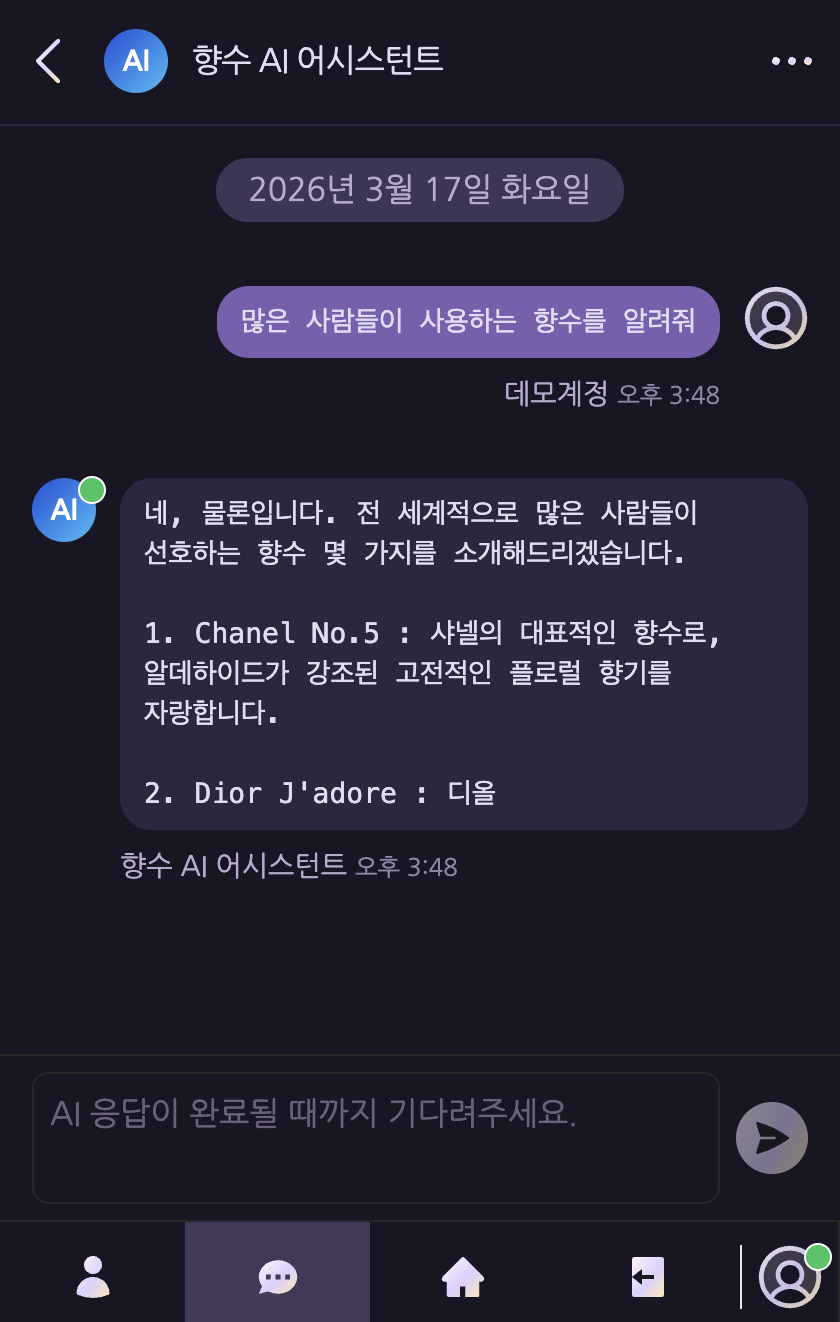
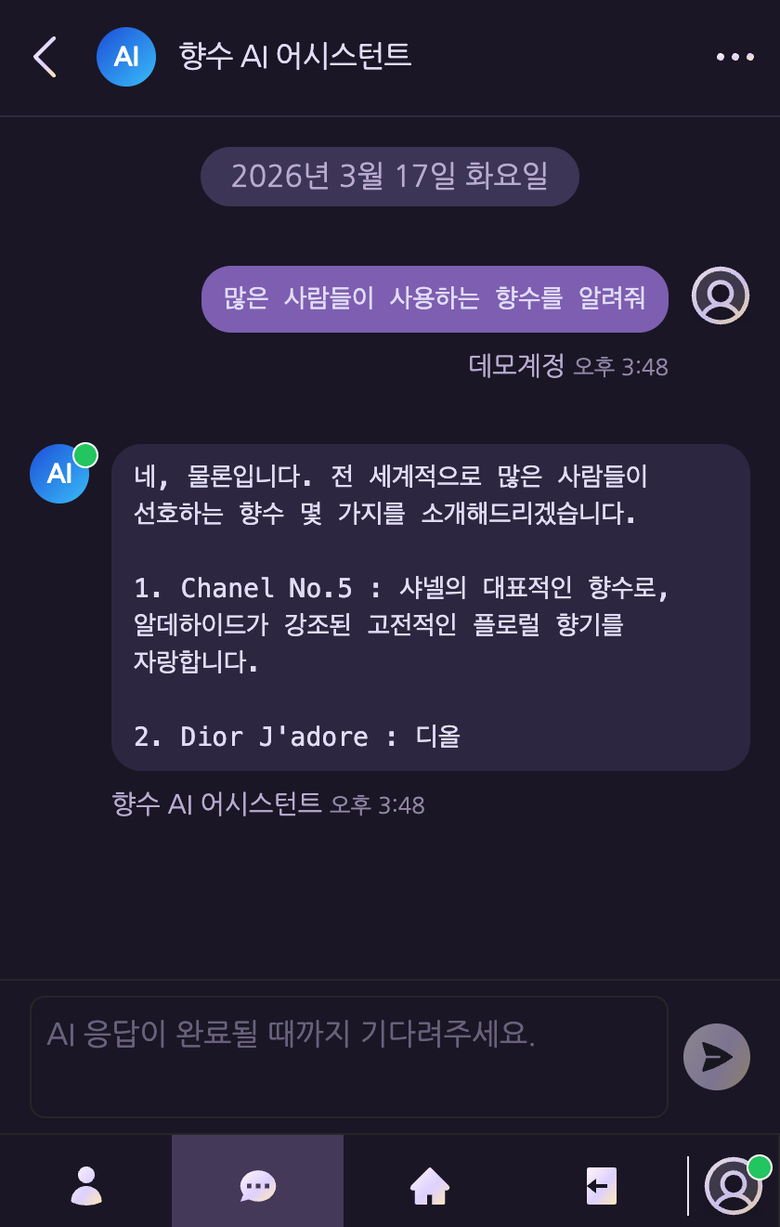
feat: 메인 페이지 리뉴얼 작업 중
- FeatureShowcase 컴포넌트 신규 추가
- home-v2 페이지 추가 (showcase 이미지: scan, create, scan_web)
- 목업 이미지 추가
- .gitignore에 .claude/ 추가

diff --git a/next-server/src/app/components/main/FeatureShowcase.tsx b/next-server/src/app/components/main/FeatureShowcase.tsx
@@ -1,0 +1,377 @@
+'use client';
+
+import Image from 'next/image';
+import Link from 'next/link';
+import { motion } from 'framer-motion';
+import { HiArrowRight } from 'react-icons/hi2';
+
+/* ──────────────────────────────────────────────
+   데이터
+────────────────────────────────────────────── */
+const FEATURES = [
+  {
+    tag: 'AI Chat',
+    headline: ['향수에 대해 궁금한 점을', 'AI에게 물어보세요'],
+    steps: [
+      { label: 'AI 채팅방에 들어가요', desc: '향수 AI 어시스턴트와 1:1로 대화할 수 있어요' },
+      { label: '궁금한 것을 편하게 물어보세요', desc: '"향수를 처음 사려는데 뭐가 좋을까요?" 친구한테 묻듯이 편하게 적어보세요' },
+      { label: '향수와 관련된 질문에 답해드려요', desc: '향수 추천부터 향의 계열, 브랜드 스토리까지 궁금한 점을 자유롭게 물어보세요' },
+    ],
+    badges: ['GPT-4o', 'Streaming', 'Socket.io'],
+    cta: '채팅 시작하기',
+    href: '/conversations/new?aiAgentType=assistant',
+    image: '/image/notice/chat/conversation_ai/chat_ai_mobile04.png',
+    webImage: '/image/notice/chat/conversation_ai/chat_ai_web04.png',
+    imageAlt: 'AI 향수 추천 채팅 화면',
+    flip: false,
+    phoneAspectRatio: '780 / 1227',
+  },
+  {
+    tag: 'AI Vision',
+    headline: ['카메라로 찍거나 사진을 올리면', '상품 정보와 구매 링크를 바로 알려드려요'],
+    steps: [
+      { label: '카메라로 찍거나 사진을 올려주세요', desc: '향수병에 적힌 브랜드나 제품명이 잘 보이게 찍어주세요' },
+      { label: 'AI가 향수를 분석해요', desc: '향수병에 적힌 텍스트를 인식해서 어떤 제품인지 찾아드려요' },
+      { label: '상품 정보와 구매 링크를 확인하세요', desc: '향수 상세 정보와 구매할 수 있는 링크를 바로 보여드려요' },
+    ],
+    badges: ['GPT-4o Vision', '2-pass 분석', 'Cloudinary'],
+    cta: '지금 스캔하기',
+    href: '/scan',
+    image: '/showcase/scan.png',
+    webImage: '/showcase/scan_web.png',
+    imageAlt: '향수 스캔 화면',
+    flip: true,
+    phoneAspectRatio: '9 / 19.5',
+  },
+  {
+    tag: 'AI Auto-fill',
+    headline: ['향수 사진을 올리면 AI가 브랜드, 이름, 설명, 노트를 자동으로 분석해서', '직접 검색하지 않아도 바로 기록할 수 있어요'],
+    steps: [
+      { label: '향수 사진을 올려주세요', desc: '첫 번째 이미지를 AI가 자동으로 분석해요' },
+      { label: 'AI가 정보를 자동으로 채워줘요', desc: '브랜드, 이름, 설명, 노트까지 한 번에 입력돼요' },
+      { label: '확인하고 바로 기록해요', desc: '수정 후 저장하면 향수 컬렉션에 공개 등록돼요' },
+    ],
+    badges: ['GPT-4o Vision', 'Auto-fill', 'Prisma ORM'],
+    cta: '향수 등록하기',
+    href: '/fragrance/create',
+    image: '/showcase/create.png',
+    webImage: '/image/notice/fragrance/fragrance_create_web01.png',
+    imageAlt: '향수 자동 등록 화면',
+    flip: false,
+    phoneAspectRatio: '9 / 19.5',
+  },
+];
+
+/* ──────────────────────────────────────────────
+   PC 브라우저 목업 프레임
+────────────────────────────────────────────── */
+function BrowserFrame({ src, alt }: { src: string; alt: string }) {
+  return (
+    <div
+      style={{
+        borderRadius: '14px',
+        background: 'linear-gradient(160deg, #2a2440 0%, #1a1628 40%, #0e0c18 100%)',
+        boxShadow: [
+          '0 60px 120px rgba(0,0,0,0.65)',
+          '0 28px 56px rgba(0,0,0,0.38)',
+          '0 8px 20px rgba(0,0,0,0.22)',
+          'inset 0 1.5px 0 rgba(255,255,255,0.14)',
+          'inset 0 -1px 0 rgba(0,0,0,0.5)',
+          '0 0 40px 6px rgba(80,50,150,0.10)',
+        ].join(', '),
+        padding: '1.5px',
+      }}
+    >
+      <div style={{ borderRadius: '13px', overflow: 'hidden', background: '#0e0c18' }}>
+        {/* 툴바 */}
+        <div
+          style={{
+            height: '36px',
+            background: 'linear-gradient(180deg, #252040 0%, #1c1832 100%)',
+            display: 'flex', alignItems: 'center', padding: '0 14px', gap: '10px',
+            borderBottom: '1px solid rgba(255,255,255,0.07)',
+          }}
+        >
+          <div style={{ display: 'flex', gap: '5px' }}>
+            {(['#ff5f57', '#febc2e', '#28c840'] as const).map((color) => (
+              <div key={color} style={{ width: '9px', height: '9px', borderRadius: '50%', background: color, boxShadow: `0 0 4px ${color}66` }} />
+            ))}
+          </div>
+          <div style={{ flex: 1, height: '20px', borderRadius: '5px', background: 'rgba(255,255,255,0.06)', border: '1px solid rgba(255,255,255,0.09)', display: 'flex', alignItems: 'center', justifyContent: 'center', gap: '5px' }}>
+            <div style={{ width: '6px', height: '6px', borderRadius: '50%', background: 'rgba(80,200,120,0.7)' }} />
+            <span style={{ fontSize: '9px', color: 'rgba(255,255,255,0.38)', letterSpacing: '0.02em' }}>iloveperfume.co.kr</span>
+          </div>
+          <div style={{ display: 'flex', gap: '4px' }}>
+            {[1, 2, 3].map((i) => (
+              <div key={i} style={{ width: '14px', height: '14px', borderRadius: '3px', background: 'rgba(255,255,255,0.07)' }} />
+            ))}
+          </div>
+        </div>
+        {/* 화면 */}
+        <div className="relative overflow-hidden" style={{ aspectRatio: '16 / 10', background: '#050410' }}>
+          <Image
+            src={src}
+            alt={alt}
+            fill
+            className="object-cover object-top"
+            sizes="(max-width: 1024px) 0px, (max-width: 1280px) 380px, 460px"
+          />
+          <div aria-hidden style={{ position: 'absolute', bottom: 0, left: 0, right: 0, height: '30%', background: 'linear-gradient(to bottom, transparent, rgba(5,4,16,0.85))', pointerEvents: 'none', zIndex: 5 }} />
+          <div aria-hidden style={{ position: 'absolute', inset: 0, background: 'linear-gradient(135deg, rgba(255,255,255,0.07) 0%, rgba(255,255,255,0.02) 25%, transparent 50%)', pointerEvents: 'none', zIndex: 6 }} />
+        </div>
+      </div>
+    </div>
+  );
+}
+
+/* ──────────────────────────────────────────────
+   폰 프레임
+────────────────────────────────────────────── */
+function PhoneFrame({ src, alt, aspectRatio = '9 / 19.5' }: { src: string; alt: string; aspectRatio?: string }) {
+  return (
+    <motion.div
+      className="relative shrink-0"
+      style={{ width: 'clamp(130px, 16vw, 190px)' }}
+      animate={{ y: [0, -10, 0] }}
+      transition={{ duration: 5.2, repeat: Infinity, ease: 'easeInOut' }}
+    >
+      <div aria-hidden style={{ position: 'absolute', bottom: '-40px', left: '-20%', right: '-20%', height: '80px', background: 'var(--color-lavender)', opacity: 0.2, filter: 'blur(48px)', borderRadius: '50%', zIndex: -1 }} />
+      <div aria-hidden style={{ position: 'absolute', inset: '-20px', background: 'radial-gradient(ellipse at 50% 58%, rgba(90,55,160,0.18) 0%, transparent 62%)', filter: 'blur(16px)', zIndex: -1, borderRadius: '5rem' }} />
+      <div style={{ borderRadius: '1.5rem', padding: '4px', background: 'linear-gradient(148deg, #343048 0%, #1a1626 18%, #0e0c18 45%, #171328 70%, #2a2440 88%, #1e1a30 100%)', boxShadow: ['0 60px 110px rgba(0,0,0,0.70)', '0 28px 56px rgba(0,0,0,0.40)', '0 0 24px 4px rgba(80,50,150,0.12)', 'inset 0 2px 0 rgba(255,255,255,0.18)'].join(', ') }}>
+        <div style={{ borderRadius: '1.2rem', padding: '1.5px', background: '#0a0812', boxShadow: 'inset 0 0 0 0.5px rgba(255,255,255,0.07)' }}>
+          <div className="relative overflow-hidden flex flex-col" style={{ borderRadius: '1.1rem', background: '#050410' }}>
+            {/* 상태바 */}
+            <div aria-hidden style={{ height: '20px', flexShrink: 0, background: '#050410', position: 'relative', zIndex: 12 }}>
+              <div aria-hidden style={{ position: 'absolute', top: '4px', left: '50%', transform: 'translateX(-50%)', width: '22%', height: '10px', background: '#1a1a1a', borderRadius: '99px' }} />
+            </div>
+            {/* 이미지 — 비율 그대로 */}
+            <div className="relative" style={{ width: '100%', aspectRatio }}>
+              <Image src={src} alt={alt} fill className="object-cover object-top" sizes="(max-width: 1024px) 220px, (max-width: 1280px) 160px, 190px" priority />
+            </div>
+            <div aria-hidden style={{ position: 'absolute', inset: 0, zIndex: 10, pointerEvents: 'none', background: 'linear-gradient(135deg, rgba(255,255,255,0.09) 0%, rgba(255,255,255,0.03) 22%, transparent 48%)' }} />
+            <div aria-hidden style={{ position: 'absolute', inset: 0, zIndex: 9, pointerEvents: 'none', boxShadow: 'inset 0 0 20px rgba(80,45,160,0.22)', borderRadius: '1.1rem' }} />
+          </div>
+        </div>
+      </div>
+      <div aria-hidden style={{ position: 'absolute', left: '-4px', top: '14.5%', width: '4px', height: '3.5%', background: 'linear-gradient(180deg, #383050 0%, #1a1628 50%, #242038 100%)', borderRadius: '3px 0 0 3px' }} />
+      <div aria-hidden style={{ position: 'absolute', left: '-4px', top: '21%', width: '4px', height: '6.5%', background: 'linear-gradient(180deg, #383050 0%, #1a1628 50%, #242038 100%)', borderRadius: '3px 0 0 3px' }} />
+      <div aria-hidden style={{ position: 'absolute', left: '-4px', top: '30%', width: '4px', height: '6.5%', background: 'linear-gradient(180deg, #383050 0%, #1a1628 50%, #242038 100%)', borderRadius: '3px 0 0 3px' }} />
+      <div aria-hidden style={{ position: 'absolute', right: '-4px', top: '24%', width: '4px', height: '12%', background: 'linear-gradient(180deg, #383050 0%, #1a1628 50%, #242038 100%)', borderRadius: '0 3px 3px 0' }} />
+    </motion.div>
+  );
+}
+
+/* ──────────────────────────────────────────────
+   모바일 전용 폰 프레임 (스크린샷)
+────────────────────────────────────────────── */
+function PhoneFrameStandalone({ src, alt, aspectRatio = '9 / 19.5' }: { src: string; alt: string; aspectRatio?: string }) {
+  return (
+    <motion.div
+      className="relative mx-auto shrink-0 w-full"
+      animate={{ y: [0, -11, 0] }}
+      transition={{ duration: 5.2, repeat: Infinity, ease: 'easeInOut' }}
+    >
+      <div aria-hidden style={{ position: 'absolute', bottom: '-44px', left: '-15%', right: '-15%', height: '90px', background: 'var(--color-lavender)', opacity: 0.22, filter: 'blur(52px)', borderRadius: '50%', zIndex: -1 }} />
+      <div style={{ borderRadius: '1.5rem', padding: '4.5px', background: 'linear-gradient(148deg, #343048 0%, #1a1626 18%, #0e0c18 45%, #171328 70%, #2a2440 88%, #1e1a30 100%)', boxShadow: ['0 70px 130px rgba(0,0,0,0.70)', '0 36px 68px rgba(0,0,0,0.42)', 'inset 0 2px 0 rgba(255,255,255,0.18)', '0 0 28px 4px rgba(80,50,150,0.12)'].join(', ') }}>
+        <div style={{ borderRadius: '1.2rem', padding: '1.5px', background: '#0a0812' }}>
+          <div className="relative overflow-hidden flex flex-col" style={{ borderRadius: '1.1rem', background: '#050410' }}>
+            {/* 상태바 */}
+            <div aria-hidden style={{ height: '24px', flexShrink: 0, background: '#050410', position: 'relative', zIndex: 12 }}>
+              <div aria-hidden style={{ position: 'absolute', top: '5px', left: '50%', transform: 'translateX(-50%)', width: '22%', height: '12px', background: '#1a1a1a', borderRadius: '99px' }} />
+            </div>
+            {/* 이미지 — 비율 그대로 */}
+            <div className="relative" style={{ width: '100%', aspectRatio }}>
+              <Image src={src} alt={alt} fill className="object-cover object-top" sizes="(max-width: 768px) 280px, 220px" priority />
+            </div>
+            <div aria-hidden style={{ position: 'absolute', inset: 0, zIndex: 10, pointerEvents: 'none', background: 'linear-gradient(135deg, rgba(255,255,255,0.09) 0%, transparent 48%)' }} />
+          </div>
+        </div>
+      </div>
+      <div aria-hidden style={{ position: 'absolute', left: '-5px', top: '14.5%', width: '5px', height: '3.5%', background: 'linear-gradient(180deg, #383050 0%, #1a1628 50%, #242038 100%)', borderRadius: '3px 0 0 3px' }} />
+      <div aria-hidden style={{ position: 'absolute', left: '-5px', top: '21%', width: '5px', height: '6.5%', background: 'linear-gradient(180deg, #383050 0%, #1a1628 50%, #242038 100%)', borderRadius: '3px 0 0 3px' }} />
+      <div aria-hidden style={{ position: 'absolute', left: '-5px', top: '30%', width: '5px', height: '6.5%', background: 'linear-gradient(180deg, #383050 0%, #1a1628 50%, #242038 100%)', borderRadius: '3px 0 0 3px' }} />
+      <div aria-hidden style={{ position: 'absolute', right: '-5px', top: '24%', width: '5px', height: '12%', background: 'linear-gradient(180deg, #383050 0%, #1a1628 50%, #242038 100%)', borderRadius: '0 3px 3px 0' }} />
+    </motion.div>
+  );
+}
+
+/* ──────────────────────────────────────────────
+   목업 그룹 (브라우저 + 폰)
+────────────────────────────────────────────── */
+function MockupGroup({ src, webSrc, alt, flip, phoneAspectRatio }: { src: string; webSrc: string; alt: string; flip: boolean; phoneAspectRatio?: string }) {
+  return (
+    <>
+      {/* 모바일: 폰만 */}
+      <div className="flex justify-center lg:hidden">
+        <motion.div
+          initial={{ opacity: 0, y: 48 }}
+          whileInView={{ opacity: 1, y: 0 }}
+          viewport={{ once: true, margin: '-60px' }}
+          transition={{ duration: 0.8, ease: [0.22, 1, 0.36, 1] }}
+          style={{ width: 'clamp(220px, 55vw, 280px)' }}
+        >
+          <PhoneFrameStandalone src={src} alt={alt} aspectRatio={phoneAspectRatio} />
+        </motion.div>
+      </div>
+
+      {/* PC: 브라우저(PC 스크린샷) + 폰(모바일 스크린샷) */}
+      <div
+        className="hidden lg:flex w-full lg:w-[52%] xl:w-[48%] shrink-0 items-end justify-center"
+        style={{ minHeight: '380px' }}
+      >
+        <motion.div
+          className="relative w-full"
+          initial={{ opacity: 0, y: 48 }}
+          whileInView={{ opacity: 1, y: 0 }}
+          viewport={{ once: true, margin: '-60px' }}
+          transition={{ duration: 0.85, ease: [0.22, 1, 0.36, 1] }}
+        >
+          {/* 브라우저 프레임 */}
+          <motion.div
+            animate={{ y: [0, -6, 0] }}
+            transition={{ duration: 6.4, repeat: Infinity, ease: 'easeInOut', delay: 0.4 }}
+            style={{ paddingBottom: '60px' }}
+          >
+            <BrowserFrame src={webSrc} alt={alt} />
+          </motion.div>
+
+          {/* 폰 프레임 */}
+          <div
+            className="absolute bottom-0 z-10"
+            style={{
+              [flip ? 'left' : 'right']: '0px',
+              transform: flip ? 'translateX(-10%)' : 'translateX(10%)',
+            }}
+          >
+            <PhoneFrame src={src} alt={alt} aspectRatio={phoneAspectRatio} />
+          </div>
+
+          {/* 배경 glow */}
+          <div aria-hidden style={{ position: 'absolute', bottom: '10%', left: '50%', transform: 'translateX(-50%)', width: '60%', height: '40px', background: 'radial-gradient(ellipse, rgba(90,55,160,0.25) 0%, transparent 70%)', filter: 'blur(24px)', zIndex: -1 }} />
+        </motion.div>
+      </div>
+    </>
+  );
+}
+
+/* ──────────────────────────────────────────────
+   단계 안내
+────────────────────────────────────────────── */
+function StepList({ steps }: { steps: { label: string; desc: string }[] }) {
+  return (
+    <ol className="flex flex-col gap-5">
+      {steps.map(({ label, desc }, i) => (
+        <motion.li
+          key={label}
+          className="flex items-start gap-4"
+          initial={{ opacity: 0, x: -14 }}
+          whileInView={{ opacity: 1, x: 0 }}
+          viewport={{ once: true, margin: '-30px' }}
+          transition={{ duration: 0.5, delay: i * 0.1, ease: [0.22, 1, 0.36, 1] }}
+        >
+          <span
+            className="text-gradient-scent font-bold shrink-0 leading-none mt-0.5 tabular-nums"
+            style={{ fontSize: 'clamp(1.35rem, 2.2vw, 1.85rem)' }}
+            aria-hidden
+          >
+            {String(i + 1).padStart(2, '0')}
+          </span>
+          <div className="flex flex-col gap-0.5">
+            <span className="font-semibold text-sm leading-snug" style={{ color: 'var(--color-text-primary)' }}>{label}</span>
+            <span className="text-xs leading-relaxed text-secondary">{desc}</span>
+          </div>
+        </motion.li>
+      ))}
+    </ol>
+  );
+}
+
+/* ──────────────────────────────────────────────
+   개별 쇼케이스 섹션
+────────────────────────────────────────────── */
+function ShowcaseSection({ feature }: { feature: (typeof FEATURES)[number] }) {
+  const { tag, headline, steps, badges, cta, href, image, webImage, imageAlt, flip, phoneAspectRatio } = feature;
+
+  return (
+    <div
+      className={[
+        'flex flex-col items-center gap-10 lg:gap-12 xl:gap-16',
+        flip ? 'lg:flex-row-reverse' : 'lg:flex-row',
+      ].join(' ')}
+    >
+      <MockupGroup src={image} webSrc={webImage} alt={imageAlt} flip={flip} phoneAspectRatio={phoneAspectRatio} />
+
+      <motion.div
+        className="flex-1 flex flex-col gap-7 min-w-0"
+        initial={{ opacity: 0, y: 28 }}
+        whileInView={{ opacity: 1, y: 0 }}
+        viewport={{ once: true, margin: '-60px' }}
+        transition={{ duration: 0.7, delay: 0.18, ease: [0.22, 1, 0.36, 1] }}
+      >
+        <span
+          className="self-start text-[0.6rem] font-bold tracking-[0.12em] uppercase px-3 py-1 rounded-full"
+          style={{ background: 'var(--color-lavender-pale)', border: '1px solid var(--color-lavender-border)', color: 'var(--color-lavender)' }}
+        >
+          {tag}
+        </span>
+
+        <h2
+          className="text-gradient-scent font-bold leading-[1.15] tracking-tight"
+          style={{ fontSize: 'clamp(1rem, 2.1vw, 1.6rem)' }}
+        >
+          {headline[0]} {headline[1]}
+        </h2>
+
+        <StepList steps={steps} />
+
+        <div className="flex flex-wrap gap-2" aria-label="사용 기술">
+          {badges.map((badge) => (
+            <span key={badge} className="footer-stack-badge">{badge}</span>
+          ))}
+        </div>
+
+        <Link href={href} className="action-btn self-start">
+          {cta}
+          <HiArrowRight className="size-3.5 shrink-0" aria-hidden />
+        </Link>
+      </motion.div>
+    </div>
+  );
+}
+
+/* ──────────────────────────────────────────────
+   메인 export
+────────────────────────────────────────────── */
+export default function FeatureShowcase() {
+  return (
+    <section
+      className="w-full px-4 md:px-8 pb-20 md:pb-28 max-w-[1440px] mx-auto"
+      aria-label="기능 소개"
+    >
+      <motion.div
+        className="text-center py-14 md:py-20"
+        initial={{ opacity: 0, y: 22 }}
+        whileInView={{ opacity: 1, y: 0 }}
+        viewport={{ once: true }}
+        transition={{ duration: 0.7, ease: [0.22, 1, 0.36, 1] }}
+      >
+        <div className="line-gradient-deco w-20 mx-auto mb-8" aria-hidden />
+        <p className="text-[0.68rem] tracking-[0.35em] mb-3 font-medium text-secondary uppercase">How it works</p>
+        <h2 className="text-gradient-scent page-title-gradient">이렇게 사용하면 돼요</h2>
+      </motion.div>
+
+      <div>
+        {FEATURES.map((feature, i) => (
+          <div key={feature.href}>
+            <div className="py-12 md:py-18">
+              <ShowcaseSection feature={feature} />
+            </div>
+            {i < FEATURES.length - 1 && (
+              <div className="line-gradient-deco w-40 mx-auto" aria-hidden />
+            )}
+          </div>
+        ))}
+      </div>
+    </section>
+  );
+}

diff --git a/next-server/src/app/(main)/home-v2/page.tsx b/next-server/src/app/(main)/home-v2/page.tsx
@@ -1,0 +1,19 @@
+import type { Metadata } from 'next';
+import FeatureShowcase from '@/src/app/components/main/FeatureShowcase';
+import ProductFragrance from '@/src/app/components/main/ProductFragrance';
+import GuideBanner from '@/src/app/components/main/GuideBanner';
+
+export const metadata: Metadata = {
+  title: 'Scent Memories — 새 홈 (비교용)',
+  robots: { index: false },
+};
+
+export default function HomeV2() {
+  return (
+    <div className="flex flex-col relative">
+      <GuideBanner />
+      <FeatureShowcase />
+      <ProductFragrance />
+    </div>
+  );
+}
